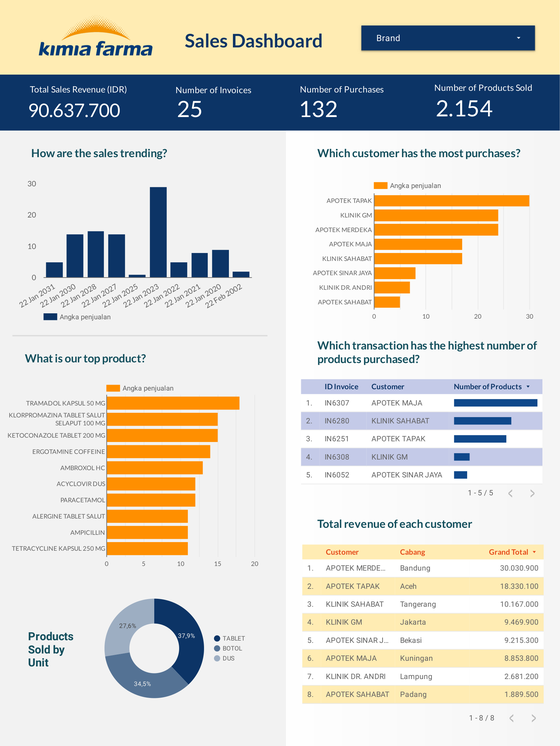
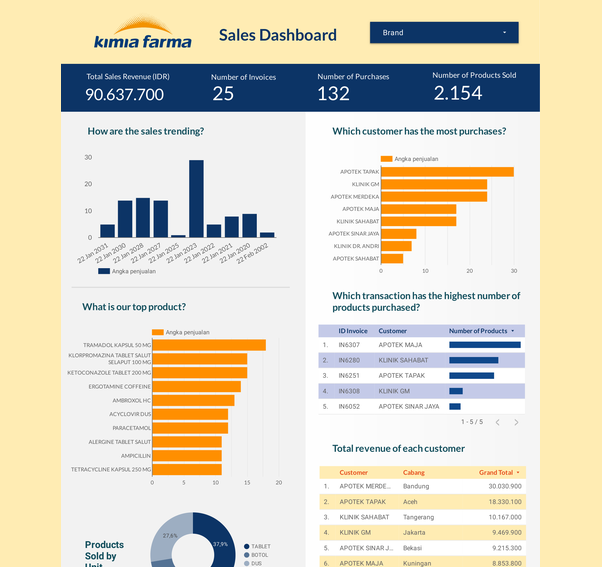
Match before and after dashboard image scale in README
Crop and scale the comparison thumbnails so the KPI text reads at a
similar size side by side.

diff --git a/README.md b/README.md
@@ -8,13 +8,13 @@ I took the program's sales sample from raw tables through joins and aggregates, 
 
 <table>
   <tr>
-    <td align="center" width="50%">
-      <img src="designs/readme_before.png" alt="Original 2023 Data Studio dashboard" width="360" /><br />
-      <sub>Original internship dashboard (Data Studio export)</sub>
+    <td align="center" valign="top" width="50%">
+      <img src="designs/readme_before.png" alt="Original internship dashboard" width="420" /><br />
+      <sub>Original internship dashboard</sub>
     </td>
-    <td align="center" width="50%">
-      <img src="designs/readme_after.png" alt="Rebuilt Brand Classic dashboard" width="360" /><br />
-      <sub>Rebuilt portfolio dashboard</sub>
+    <td align="center" valign="top" width="50%">
+      <img src="designs/readme_after.png" alt="Rebuilt dashboard" width="420" /><br />
+      <sub>Rebuilt dashboard</sub>
     </td>
   </tr>
 </table>
